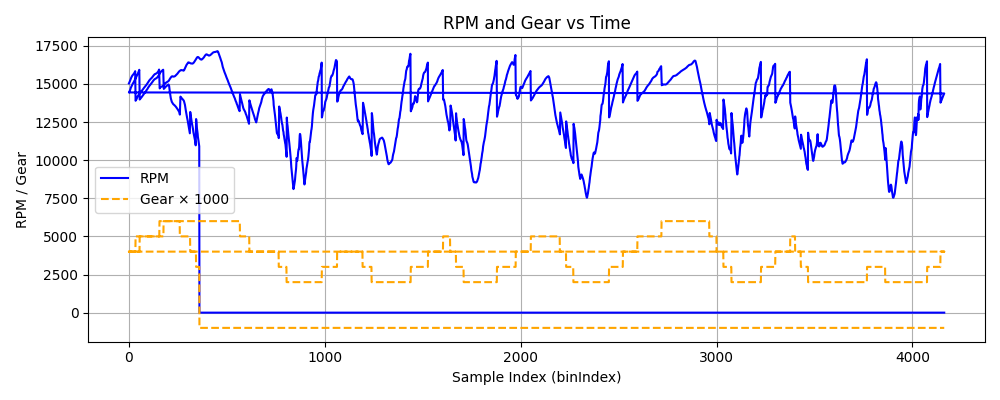
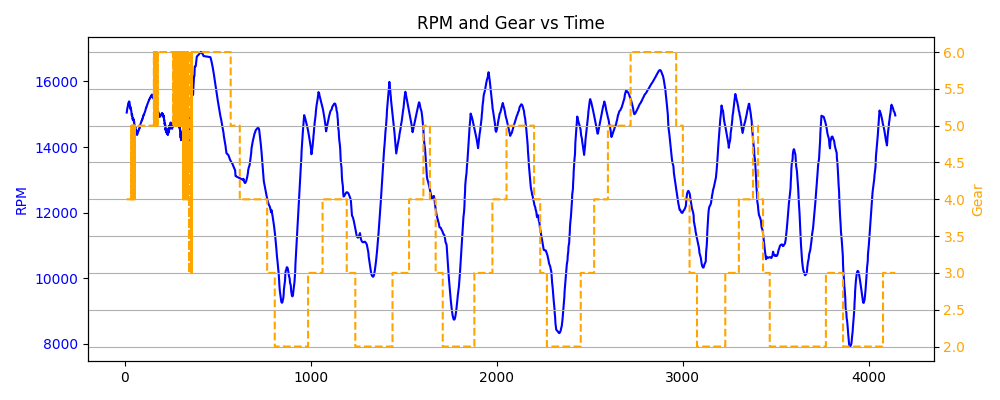
Broke 2D map again, then fixed it, then broke it, then fixed it again

diff --git a/plot_telemetry.py b/plot_telemetry.py
@@ -9,6 +9,7 @@ for throttle, brake, RPM, gear, and a 2D track map.
 import os
 import pandas as pd
 import matplotlib.pyplot as plt
+from scipy.signal import medfilt
 
 # Configuration
 DATA_DIR = 'data'
@@ -17,23 +18,43 @@ CSV_PATH = os.path.join(DATA_DIR, FILENAME)
 
 # Load telemetry data
 try:
-    df = pd.read_csv(CSV_PATH, sep = "\t")
-    print(f" Loaded {len(df)} rows from '{FILENAME}'")
+    # Load from file
+    df = pd.read_csv(CSV_PATH, sep="\t")
+    print(f"Loaded {len(df)} rows from '{FILENAME}'")
 
-    # Clip throttle and brake values from [-1, 1] to valid range [0, 1]
+    # Clip throttle and brake to [0, 1]
     df['throttle'] = df['throttle'].clip(lower=0, upper=1)
     df['brake_0'] = df['brake_0'].clip(lower=0, upper=1)
 
+    # Save full dataset for 2D map (unfiltered)
+    df_full = df.copy()
+
+    # Create RPM/Gear safe copy for plotting
+    df_rpm = df.copy()
+    df_rpm = df_rpm.sort_values("binIndex").drop_duplicates(subset="binIndex")
+
+    # Filter for valid RPM range
+    df_rpm = df_rpm[(df_rpm["rpm"] > 5000) & (df_rpm["rpm"] < 17000)].copy()
+
+    # Smooth RPM
+    df_rpm["rpm_smooth"] = df_rpm["rpm"].rolling(window=20, center=True).mean()
+    df_rpm.dropna(subset=["rpm_smooth"], inplace=True)
+
+    # Cleanup gears
+    df_rpm["gear_clean"] = df_rpm["gear"].ffill().astype(int)
+    df_rpm["gear_clean"] = df_rpm["gear_clean"].where(df_rpm["rpm_smooth"] > 5000)
+    df_rpm["gear_clean"] = df_rpm["gear_clean"].ffill()
+
 except Exception as e:
-    print(f" Failed to load CSV: {e}")
+    print(f"Failed to load CSV: {e}")
     exit()
 
 # Plot 1: Throttle and Brake Over Time
-# This plot shows the throttle and brake inputs over time, binIndex functions as time.
+# This plot uses the full dataset, since throttle/brake values don't require RPM filtering.
 
 plt.figure(figsize=(10, 4))
-plt.plot(df['binIndex'], df['throttle'], label='Throttle', color='green')
-plt.plot(df['binIndex'], df['brake_0'], label='Brake', color='red')
+plt.plot(df_full['binIndex'], df_full['throttle'], label='Throttle', color='green')
+plt.plot(df_full['binIndex'], df_full['brake_0'], label='Brake', color='red')
 plt.xlabel('Time (binIndex)')
 plt.ylabel('Input (%)')
 plt.title('Throttle and Brake vs Time')
@@ -43,35 +64,55 @@ plt.tight_layout()
 plt.savefig("plots/throttle_brake_vs_time.png")
 plt.show()
 
-# Plot 2: RPM and Gear Over Time
-plt.figure(figsize=(10, 4))
-plt.plot(df["binIndex"], df["rpm"], label="RPM", color="blue")
-plt.plot(df["binIndex"], df["gear"] * 1000, label="Gear × 1000", linestyle="--", color="orange")
-plt.xlabel("Sample Index (binIndex)")
-plt.ylabel("RPM / Gear")
+# Plot 2: RPM and Gear over Time
+# Uses filtered df_rpm to ensure clean and consistent data.
+
+# Ensure data is sorted and unique by binIndex
+df_rpm = df_rpm.sort_values("binIndex").drop_duplicates(subset="binIndex")
+
+# Clean gear data
+df_rpm["gear_clean"] = df_rpm["gear"].ffill().astype(int)
+df_rpm["gear_clean"] = df_rpm["gear_clean"].where(df_rpm["rpm_smooth"] > 5000)
+df_rpm["gear_clean"] = df_rpm["gear_clean"].ffill()
+
+# Plot setup
+fig, ax1 = plt.subplots(figsize=(10, 4))
+
+# Plot RPM (blue)
+ax1.plot(df_rpm["binIndex"], df_rpm["rpm_smooth"], label="RPM", color="blue")
+ax1.set_ylabel("RPM", color="blue")
+ax1.tick_params(axis="y", labelcolor="blue")
+
+# Plot Gear (orange steps)
+ax2 = ax1.twinx()
+ax2.step(df_rpm["binIndex"], df_rpm["gear_clean"], where="post", color="orange", linestyle="--")
+ax2.set_ylabel("Gear", color="orange")
+ax2.tick_params(axis="y", labelcolor="orange")
+
+# Final touches
 plt.title("RPM and Gear vs Time")
-plt.legend()
+plt.xlabel("Time (binIndex)")
+fig.tight_layout()
 plt.grid(True)
-plt.tight_layout()
 plt.savefig("plots/rpm_gear_vs_time.png")
 plt.show()
 
-# Plot 3: 2D Track Map
+# Plot 3: 2D Track Map (Top-Down View)
 
-# Filter out negative world positions
 # Compute distances between each point and the previous one
-dx = df['world_position_X'].diff()
-dy = df['world_position_Y'].diff()
+dx = df_full['world_position_X'].diff()
+dy = df_full['world_position_Y'].diff()
 distance = (dx**2 + dy**2)**0.5
 
-# Find index of the largest jump
+# Find index of the largest GPS jump
 max_jump_idx = distance.idxmax()
 
-# Option: only keep rows before that jump (tweak if needed)
-df = df.loc[:max_jump_idx - 1]
+# Slice data to only include points before the jump
+df_map = df_full.loc[:max_jump_idx - 1]
 
+# Plot the clean portion of the lap
 plt.figure(figsize=(6, 6))
-plt.plot(df["world_position_X"], df["world_position_Y"], color="purple")
+plt.plot(df_map["world_position_X"], df_map["world_position_Y"], color="purple")
 plt.xlabel("World X Position")
 plt.ylabel("World Y Position")
 plt.title("2D Track Map (Top-Down View)")
